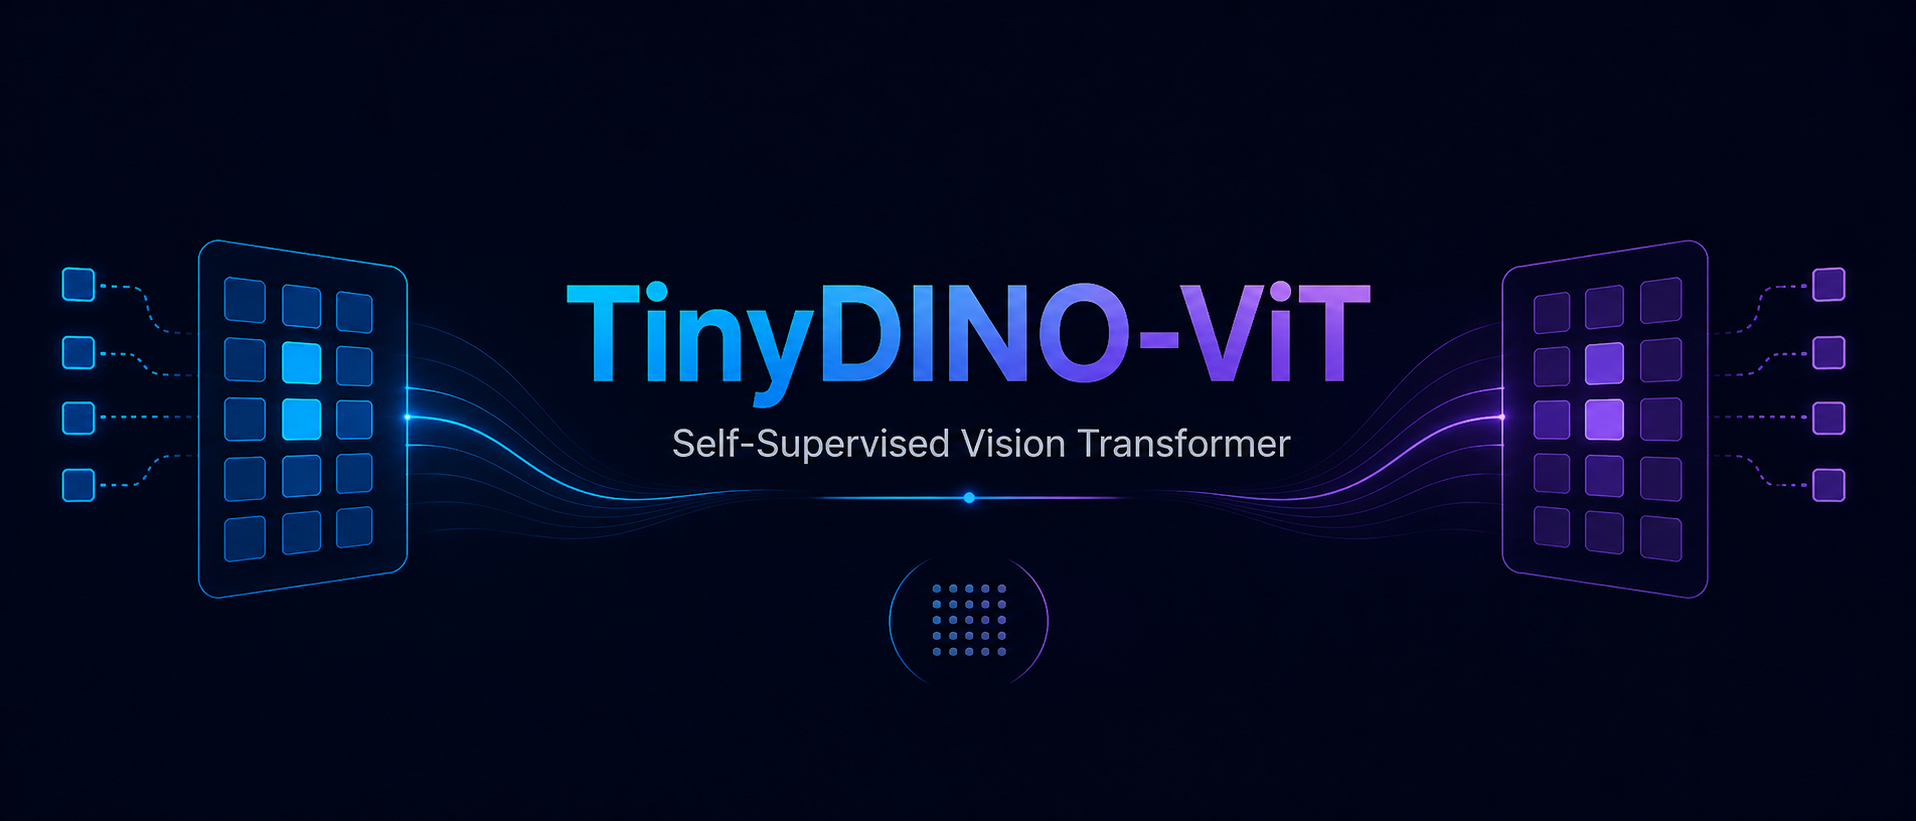
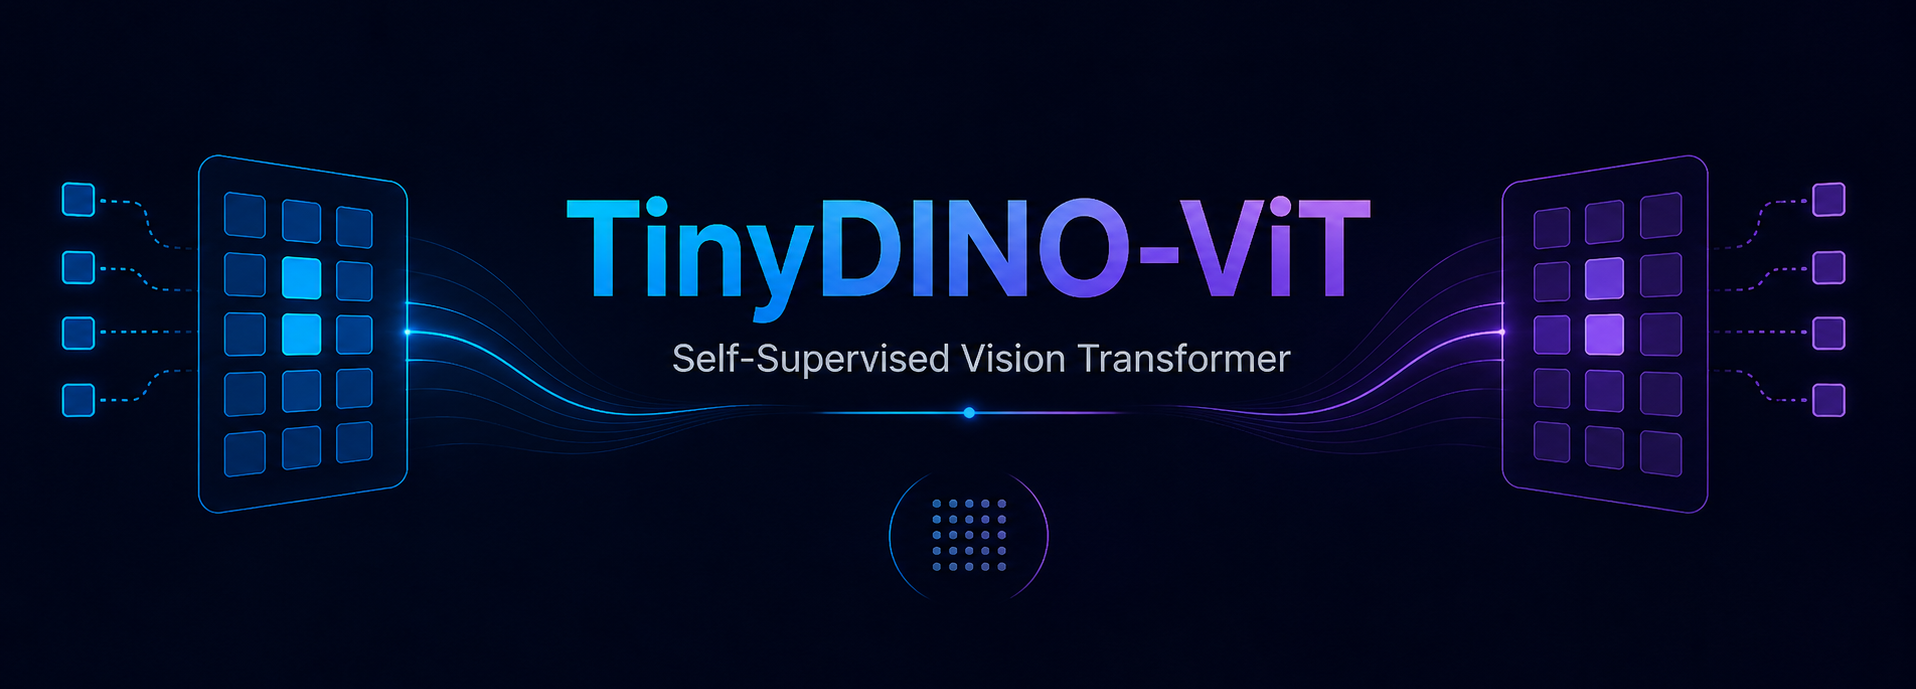
Ajustar el tamaño de la imagen en el README para mejorar la presentación

diff --git a/README.md b/README.md
@@ -1,5 +1,5 @@
 <p align="center">
-  <img src="assets\header.png" width="1000"/>
+  <img src="assets\header.png" width="700"/>
 </p>
 
 # DINO — Self-Supervised Vision Transformer